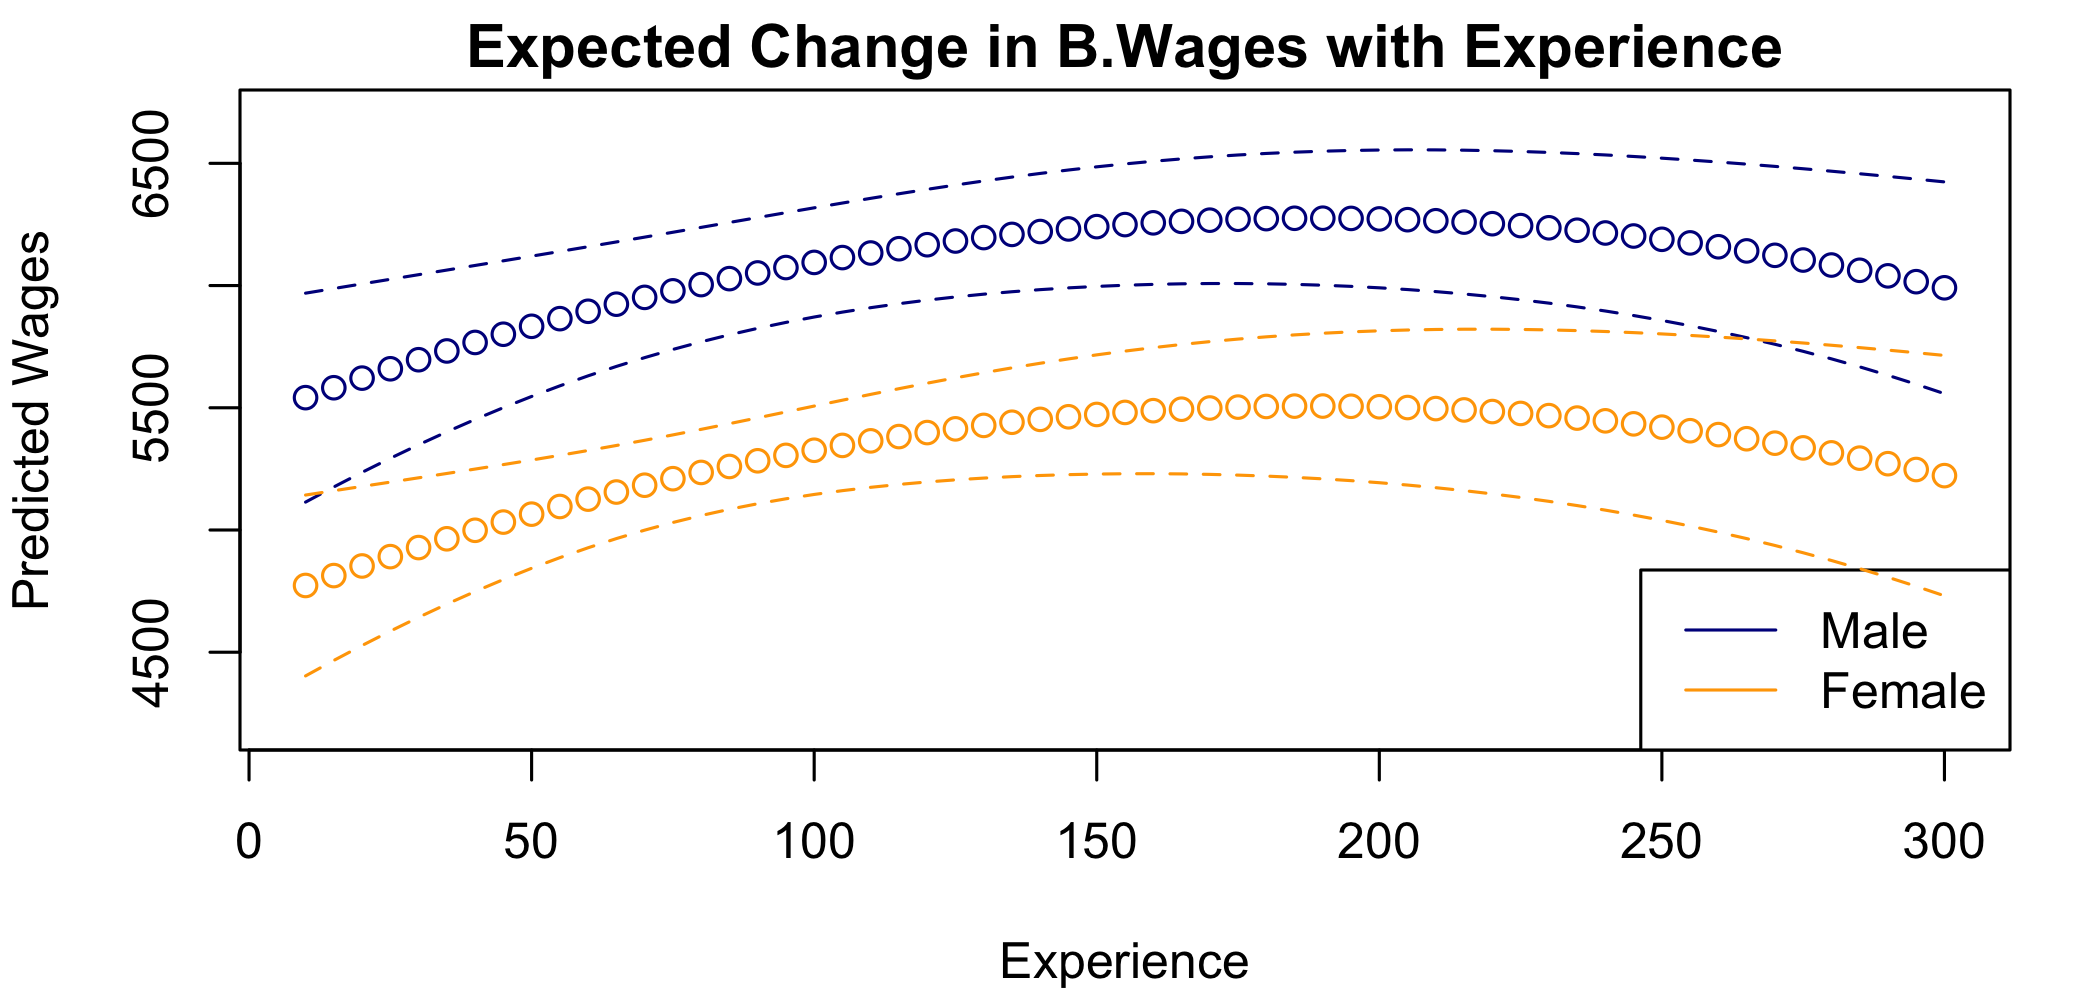
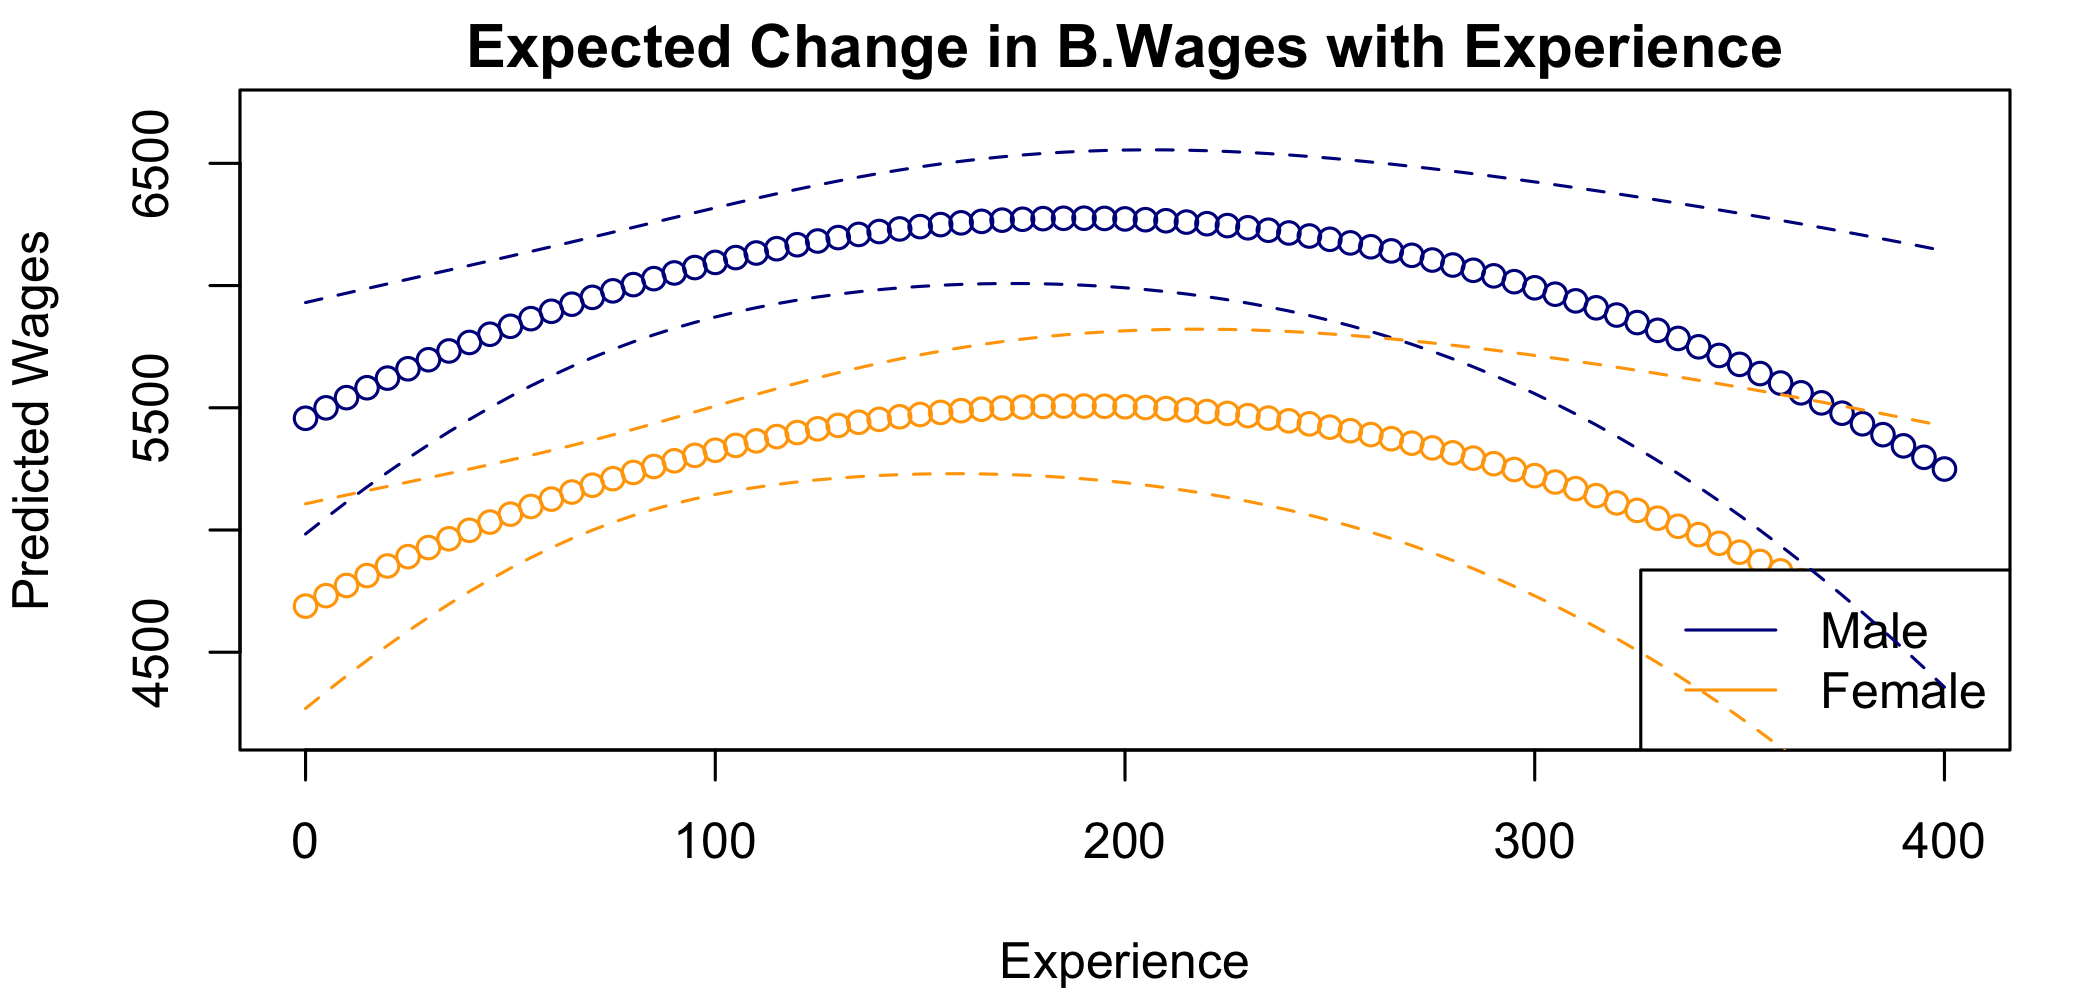
Update slides for lectures 3 and 4

diff --git a/docs/slides/lec-slides/03-reg-model-assess-I.html b/docs/slides/lec-slides/03-reg-model-assess-I.html
@@ -26,7 +26,7 @@ class: center, middle, inverse, title-slide
 
 ## Outline
 
-- Recap of last lecture
+- Questions from last lecture
 
 - Checking model assumptions
 
@@ -457,6 +457,19 @@ summary(regwagecsquares)
 
 
 ---
+## How well does the model fit the data. 
+
+The first model: .hlight[NO quadratic term]
+&lt;img src="03-reg-model-assess-I_files/figure-html/unnamed-chunk-13-1.png" style="display: block; margin: auto;" /&gt;
+
+
+---
+## How well does the model fit the data.
+
+Now the latest model: .hlight[add quadratic term]
+&lt;img src="03-reg-model-assess-I_files/figure-html/unnamed-chunk-14-1.png" style="display: block; margin: auto;" /&gt;
+
+---
 ## Interpreting the new model
 
 Clearly, .hlight[experc2] is an important predictor given all other predictors. However, it can be tough to interpret its effect using the coefficient. Instead, let's visualize the effect of changing experience.
@@ -464,7 +477,7 @@ Clearly, .hlight[experc2] is an important predictor given all other predictors. 
 
 ```r
 #First, make the 20 values of experience that you want to examine
-newexper &lt;- seq(from=10,to=300,by=5)
+newexper &lt;- seq(from=0,to=400,by=5)
 newexperc &lt;- newexper - mean(wages$exper)
 newexperc2 &lt;- newexperc^2
 newdata &lt;- data.frame(matrix(0, nrow=length(newexper), ncol=7))
@@ -477,9 +490,9 @@ preds_male &lt;- predict(regwagecsquares,newdata,interval="confidence"); preds_m
 
 ```
 ##        fit      lwr      upr
-## 1 5541.473 5114.091 5968.854
-## 2 5581.974 5176.078 5987.871
-## 3 5621.327 5235.858 6006.796
+## 1 5457.022 4983.617 5930.426
+## 2 5499.822 5049.929 5949.715
+## 3 5541.473 5114.091 5968.854
 ```
 
 ```r
@@ -489,9 +502,9 @@ preds_female &lt;- predict(regwagecsquares,newdata,interval="confidence"); preds
 
 ```
 ##        fit      lwr      upr
-## 1 4773.033 4403.057 5143.009
-## 2 4813.535 4466.389 5160.680
-## 3 4852.887 4527.494 5178.281
+## 1 4688.582 4269.895 5107.269
+## 2 4731.382 4337.545 5125.219
+## 3 4773.033 4403.057 5143.009
 ```
 
 
@@ -507,7 +520,7 @@ legend("bottomright",c("Male","Female"),col=c("darkblue","orange"),lty=c(2,2))
 #Remember that this is with average values of other predictors.
 ```
 
-&lt;img src="03-reg-model-assess-I_files/figure-html/unnamed-chunk-14-1.png" style="display: block; margin: auto;" /&gt;
+&lt;img src="03-reg-model-assess-I_files/figure-html/unnamed-chunk-16-1.png" style="display: block; margin: auto;" /&gt;
 
 --
 &lt;div class="question"&gt;
@@ -531,7 +544,7 @@ lines(y=preds_female[,"lwr"],x=newexper,col="orange",lty=2)
 lines(y=preds_female[,"upr"],x=newexper,col="orange",lty=2)
 ```
 
-&lt;img src="03-reg-model-assess-I_files/figure-html/unnamed-chunk-15-1.png" style="display: block; margin: auto;" /&gt;
+&lt;img src="03-reg-model-assess-I_files/figure-html/unnamed-chunk-17-1.png" style="display: block; margin: auto;" /&gt;
 
 
 ---

diff --git a/static/slides/lec-slides/03-reg-model-assess-I.html b/static/slides/lec-slides/03-reg-model-assess-I.html
@@ -26,7 +26,7 @@ class: center, middle, inverse, title-slide
 
 ## Outline
 
-- Recap of last lecture
+- Questions from last lecture
 
 - Checking model assumptions
 
@@ -457,6 +457,19 @@ summary(regwagecsquares)
 
 
 ---
+## How well does the model fit the data. 
+
+The first model: .hlight[NO quadratic term]
+&lt;img src="03-reg-model-assess-I_files/figure-html/unnamed-chunk-13-1.png" style="display: block; margin: auto;" /&gt;
+
+
+---
+## How well does the model fit the data.
+
+Now the latest model: .hlight[add quadratic term]
+&lt;img src="03-reg-model-assess-I_files/figure-html/unnamed-chunk-14-1.png" style="display: block; margin: auto;" /&gt;
+
+---
 ## Interpreting the new model
 
 Clearly, .hlight[experc2] is an important predictor given all other predictors. However, it can be tough to interpret its effect using the coefficient. Instead, let's visualize the effect of changing experience.
@@ -464,7 +477,7 @@ Clearly, .hlight[experc2] is an important predictor given all other predictors. 
 
 ```r
 #First, make the 20 values of experience that you want to examine
-newexper &lt;- seq(from=10,to=300,by=5)
+newexper &lt;- seq(from=0,to=400,by=5)
 newexperc &lt;- newexper - mean(wages$exper)
 newexperc2 &lt;- newexperc^2
 newdata &lt;- data.frame(matrix(0, nrow=length(newexper), ncol=7))
@@ -477,9 +490,9 @@ preds_male &lt;- predict(regwagecsquares,newdata,interval="confidence"); preds_m
 
 ```
 ##        fit      lwr      upr
-## 1 5541.473 5114.091 5968.854
-## 2 5581.974 5176.078 5987.871
-## 3 5621.327 5235.858 6006.796
+## 1 5457.022 4983.617 5930.426
+## 2 5499.822 5049.929 5949.715
+## 3 5541.473 5114.091 5968.854
 ```
 
 ```r
@@ -489,9 +502,9 @@ preds_female &lt;- predict(regwagecsquares,newdata,interval="confidence"); preds
 
 ```
 ##        fit      lwr      upr
-## 1 4773.033 4403.057 5143.009
-## 2 4813.535 4466.389 5160.680
-## 3 4852.887 4527.494 5178.281
+## 1 4688.582 4269.895 5107.269
+## 2 4731.382 4337.545 5125.219
+## 3 4773.033 4403.057 5143.009
 ```
 
 
@@ -507,7 +520,7 @@ legend("bottomright",c("Male","Female"),col=c("darkblue","orange"),lty=c(2,2))
 #Remember that this is with average values of other predictors.
 ```
 
-&lt;img src="03-reg-model-assess-I_files/figure-html/unnamed-chunk-14-1.png" style="display: block; margin: auto;" /&gt;
+&lt;img src="03-reg-model-assess-I_files/figure-html/unnamed-chunk-16-1.png" style="display: block; margin: auto;" /&gt;
 
 --
 &lt;div class="question"&gt;
@@ -531,7 +544,7 @@ lines(y=preds_female[,"lwr"],x=newexper,col="orange",lty=2)
 lines(y=preds_female[,"upr"],x=newexper,col="orange",lty=2)
 ```
 
-&lt;img src="03-reg-model-assess-I_files/figure-html/unnamed-chunk-15-1.png" style="display: block; margin: auto;" /&gt;
+&lt;img src="03-reg-model-assess-I_files/figure-html/unnamed-chunk-17-1.png" style="display: block; margin: auto;" /&gt;
 
 
 ---

diff --git a/docs/slides/lec-slides/04-reg-model-assess-II.html b/docs/slides/lec-slides/04-reg-model-assess-II.html
@@ -31,10 +31,12 @@ class: center, middle, inverse, title-slide
 
 - Don't forget to attend the lab tomorrow.
 
+- The lab report is due at 6:00pm tomorrow! 
+
 
 ## Outline
 
-- Recap of last lecture
+- Questions from last lecture
 
 - Leverage, influence, and standardized residuals
 
@@ -87,6 +89,10 @@ When does a data point have high leverage? When is a data point influential? How
 --
 
 - Leverage points POTENTIALLY have large impact on the estimates of coefficients and SEs.
+
+  &lt;div class="question"&gt;
+How?
+&lt;/div&gt;
 
 --
 
@@ -171,8 +177,8 @@ Can we try to identify any high leverage points?
 
 ```r
 n &lt;- nrow(model.matrix(regwagecsquares)); p &lt;- ncol(model.matrix(regwagecsquares))
-lev_scores &lt;- influence(regwagecsquares)$hat; #2*p/n
-plot(lev_scores,col=ifelse(lev_scores &gt; (2*p/n), 'red', 'blue'),type="h",
+lev_scores &lt;- hatvalues(regwagecsquares) #can also use influence(regwagecsquares)$hat 
+plot(lev_scores,col=ifelse(lev_scores &gt; (2*p/n), 'red2', 'navy'),type="h",
      ylab="Leverage score",xlab="Obs. number",main="Leverage Scores")
 text(x=c(1:n)[lev_scores &gt; (2*p/n)]+c(rep(2,4),-2,2),y=lev_scores[lev_scores &gt; (2*p/n)],
      labels=c(1:n)[lev_scores &gt; (2*p/n)])
@@ -282,9 +288,7 @@ Which of the highlighted points actually have high leverage?
 
 
 ```r
-n &lt;- nrow(model.matrix(regwagecsquares)); p &lt;- ncol(model.matrix(regwagecsquares))
-lev_scores &lt;- influence(regwagecsquares)$hat; #2*p/n
-plot(lev_scores,col=ifelse(lev_scores &gt; (2*p/n), 'red', 'blue'),type="h",
+plot(lev_scores,col=ifelse(lev_scores &gt; (2*p/n), 'red2', 'navy'),type="h",
      ylab="Leverage score",xlab="Obs. number",main="Leverage Scores")
 text(x=c(1:n)[lev_scores &gt; (2*p/n)]+c(rep(2,4),-2,2),y=lev_scores[lev_scores &gt; (2*p/n)],
      labels=c(1:n)[lev_scores &gt; (2*p/n)])

diff --git a/static/slides/lec-slides/04-reg-model-assess-II.html b/static/slides/lec-slides/04-reg-model-assess-II.html
@@ -31,10 +31,12 @@ class: center, middle, inverse, title-slide
 
 - Don't forget to attend the lab tomorrow.
 
+- The lab report is due at 6:00pm tomorrow! 
+
 
 ## Outline
 
-- Recap of last lecture
+- Questions from last lecture
 
 - Leverage, influence, and standardized residuals
 
@@ -87,6 +89,10 @@ When does a data point have high leverage? When is a data point influential? How
 --
 
 - Leverage points POTENTIALLY have large impact on the estimates of coefficients and SEs.
+
+  &lt;div class="question"&gt;
+How?
+&lt;/div&gt;
 
 --
 
@@ -171,8 +177,8 @@ Can we try to identify any high leverage points?
 
 ```r
 n &lt;- nrow(model.matrix(regwagecsquares)); p &lt;- ncol(model.matrix(regwagecsquares))
-lev_scores &lt;- influence(regwagecsquares)$hat; #2*p/n
-plot(lev_scores,col=ifelse(lev_scores &gt; (2*p/n), 'red', 'blue'),type="h",
+lev_scores &lt;- hatvalues(regwagecsquares) #can also use influence(regwagecsquares)$hat 
+plot(lev_scores,col=ifelse(lev_scores &gt; (2*p/n), 'red2', 'navy'),type="h",
      ylab="Leverage score",xlab="Obs. number",main="Leverage Scores")
 text(x=c(1:n)[lev_scores &gt; (2*p/n)]+c(rep(2,4),-2,2),y=lev_scores[lev_scores &gt; (2*p/n)],
      labels=c(1:n)[lev_scores &gt; (2*p/n)])
@@ -282,9 +288,7 @@ Which of the highlighted points actually have high leverage?
 
 
 ```r
-n &lt;- nrow(model.matrix(regwagecsquares)); p &lt;- ncol(model.matrix(regwagecsquares))
-lev_scores &lt;- influence(regwagecsquares)$hat; #2*p/n
-plot(lev_scores,col=ifelse(lev_scores &gt; (2*p/n), 'red', 'blue'),type="h",
+plot(lev_scores,col=ifelse(lev_scores &gt; (2*p/n), 'red2', 'navy'),type="h",
      ylab="Leverage score",xlab="Obs. number",main="Leverage Scores")
 text(x=c(1:n)[lev_scores &gt; (2*p/n)]+c(rep(2,4),-2,2),y=lev_scores[lev_scores &gt; (2*p/n)],
      labels=c(1:n)[lev_scores &gt; (2*p/n)])

diff --git a/docs/slides/lec-slides/05-reg-model-transformation.html b/docs/slides/lec-slides/05-reg-model-transformation.html
@@ -24,15 +24,18 @@ class: center, middle, inverse, title-slide
 
 
 
+## Housekeeping
+
+- Homework 2 is now online. Due date is 10:05am next Tuesday, September 17.
+
+- Submit on Gradescope on or before 10:05am!
+
+
 ## Outline
 
-- Recap of last lecture
+- Questions from last lecture
 
-- Special predictors: higher order terms
-
-- Special predictors: indicator (dummy) variables
-
-- Special predictors: interaction terms
+- Special predictors: higher order terms, indicator (dummy) variables and interaction terms
 
 - Transformations
 

diff --git a/static/slides/lec-slides/05-reg-model-transformation.html b/static/slides/lec-slides/05-reg-model-transformation.html
@@ -24,15 +24,18 @@ class: center, middle, inverse, title-slide
 
 
 
+## Housekeeping
+
+- Homework 2 is now online. Due date is 10:05am next Tuesday, September 17.
+
+- Submit on Gradescope on or before 10:05am!
+
+
 ## Outline
 
-- Recap of last lecture
+- Questions from last lecture
 
-- Special predictors: higher order terms
-
-- Special predictors: indicator (dummy) variables
-
-- Special predictors: interaction terms
+- Special predictors: higher order terms, indicator (dummy) variables and interaction terms
 
 - Transformations
 
